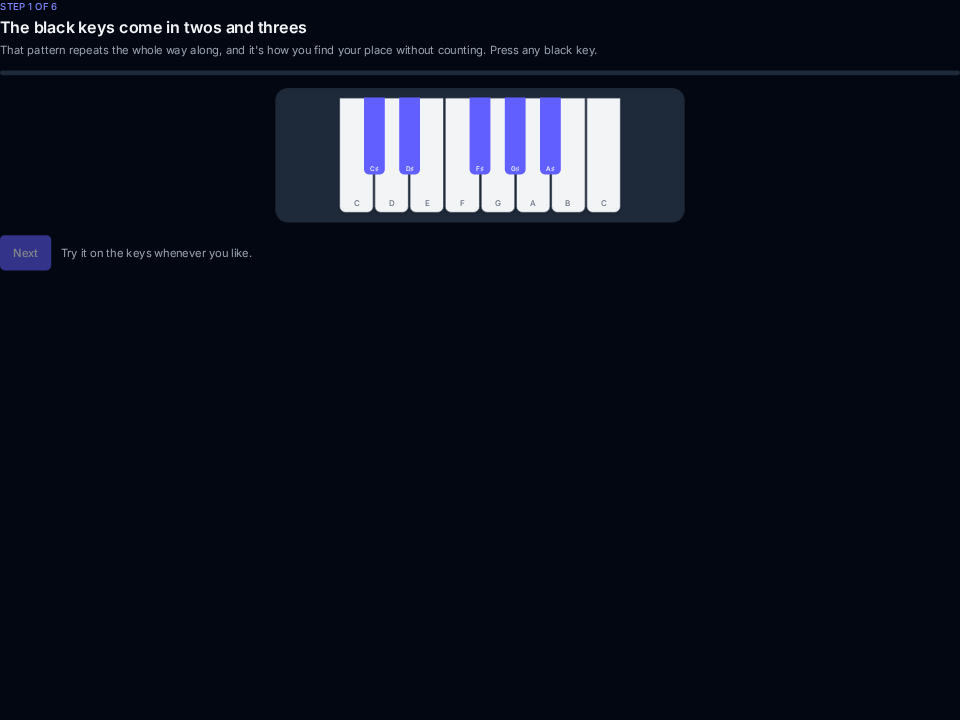
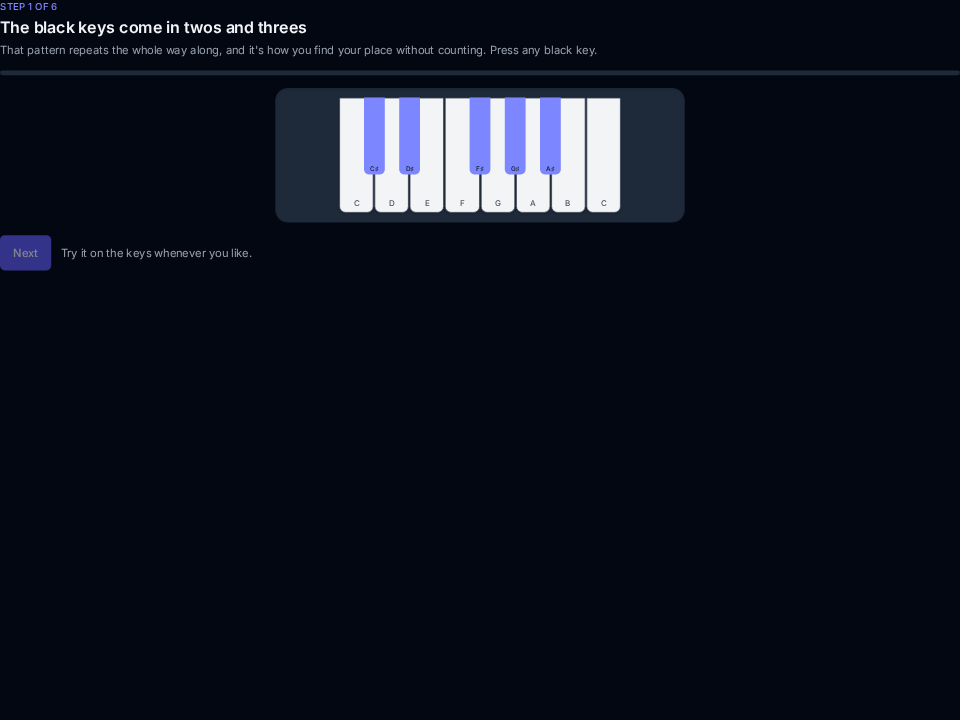
fix(ui): give each colour its own role, and gate the ways that fails
Folding colours onto roles is easy to overdo, and three of these were found by
gates rather than by reading the diff. Every raw palette utility now names a
role, including the ones in core/, which the gate had not been walking.

Roles that were sharing a name:

- `chart-bar` had become a synonym for indigo-400 across six unrelated things.
  Split: `accent-soft` for a progress bar, the race track and a decorative
  mark; `key-next` for the two that are about a key — the note the score asks
  for next, and the hold bar draining down it.
- The grade letters S–F moved out of core/grade.ts into `grade-*` tokens. They
  are a scale, not a set of states: E and F are red, but they move when the
  scale is retuned, not when `danger` is.
- `key-ink` covers dark ink on any bright key face — a white key, or a black
  key lit by a state colour. It is flat across themes because the face it sits
  on does not invert.

Contrast regressions the axe sweep caught, both from a fold that looked safe:

- An unselected segmented-control tab took `muted`, which sits under 4.5:1 on
  the tinted track it renders on. It is `body` — a control the reader is meant
  to act on, not helper text.
- The arcade's call to action took `ghost` for both its fill and its hover, so
  it lost the hover entirely and dropped to 3.5:1. It has `ghost-solid` and
  `ghost-solid-hover`, fuchsia-600 and -500 as before.

The gate grows two rules so these fail here rather than on a screen:
[…]

Changed region(s): [[0.4688, 0.1222, 0.5938, 0.2444], [0.375, 0.1222, 0.4375, 0.2444]]

diff --git a/app/app.css b/app/app.css
@@ -19,9 +19,10 @@ SPDX-License-Identifier: 0BSD
    themes cannot come apart.
 
    `npm run tokens` (dev/check-design-tokens.mjs) reads the token names straight
-   out of this block and rejects raw palette utilities in `app/components` and
-   `app/routes`, so adding a token here is all it takes to make it usable, and
-   the hand-paired form cannot come back.
+   out of this block and rejects raw palette utilities anywhere under `app/` or
+   `core/`, so adding a token here is all it takes to make it usable, and the
+   hand-paired form cannot come back. It also rejects a token nothing uses,
+   which keeps this list a description of the product rather than a wish list.
 
    Utilities generated from a token reference its variable rather than inlining
    the value, so redefining the variable under `.dark` re-resolves every use.
@@ -62,6 +63,8 @@ SPDX-License-Identifier: 0BSD
     --color-accent-line: var(--color-indigo-200);
     --color-accent-line-strong: var(--color-indigo-300);
     --color-accent-ring: var(--color-indigo-500); /* focus ring */
+    /* A lighter accent fill: progress bars, the race track, a decorative mark. */
+    --color-accent-soft: var(--color-indigo-400);
 
     /* Correct, saved, on target. Green only — `emerald` said the same thing. */
     --color-success: var(--color-green-700);
@@ -69,7 +72,6 @@ SPDX-License-Identifier: 0BSD
        white text needs it to clear WCAG 4.5:1, exactly as `danger-solid` does.
        The lighter greens look better and fail: white on green-600 is 3.2:1. */
     --color-success-solid: var(--color-green-700);
-    --color-success-solid-hover: var(--color-green-800);
     --color-success-surface: var(--color-green-50);
     --color-success-fill: var(--color-green-200);
     --color-success-line: var(--color-green-300);
@@ -94,6 +96,7 @@ SPDX-License-Identifier: 0BSD
     --color-warn-solid: var(--color-amber-500);
 
     /* Neutral news — the sky banner, distinct from a warning and from the brand. */
+    --color-info: var(--color-sky-700); /* the dismiss control's hover */
     --color-info-ink: var(--color-sky-900);
     --color-info-surface: var(--color-sky-50);
     --color-info-line: var(--color-sky-300);
@@ -108,14 +111,23 @@ SPDX-License-Identifier: 0BSD
        the same way the score sheet stays paper. Inverting them would be a
        different instrument. */
     --color-key-white: var(--color-white);
-    --color-key-white-ink: var(--color-gray-900);
+    /* Dark ink for any bright key face — a white key, or a black key lit by a
+       state colour. Flat across themes, because the face it sits on does not
+       invert: `ink` would go pale in dark mode and vanish into the fill. */
+    --color-key-ink: var(--color-gray-900);
     --color-key-black: var(--color-gray-900);
     --color-key-black-ink: var(--color-gray-300);
     --color-key-spent: var(--color-gray-400); /* a key the round is done with */
     --color-key-spent-ink: var(--color-gray-200);
     --color-key-hover: var(--color-indigo-50);
     --color-key-held: var(--color-green-500); /* a key you are holding down */
-    --color-key-next: var(--color-indigo-400); /* the note to play next */
+    /* What the score asks of a key — which one comes next, and the hold bar
+       draining down it for as long as the note is written to last. */
+    --color-key-next: var(--color-indigo-400);
+    /* The note name printed on a white key. It darkens in dark mode rather than
+       lightening, because the key it sits on does not invert — `faint` would
+       lighten it against a light key and sink it under the contrast floor. */
+    --color-key-label: var(--color-gray-400);
     /* How a run went, as a fixed scale. These are data, not chrome: the steps
        are matched to the share emoji (🟩 🟨 🟧 🟥 ⬜), and the share card is an
        image other people look at, so they hold the same value in both themes.
@@ -128,13 +140,27 @@ SPDX-License-Identifier: 0BSD
     --color-band-weak: var(--color-red-500);
     --color-band-none: var(--color-gray-300);
 
-    /* Bars in the practice charts: the run's peak, an ordinary reading, and the
-       track the readings sit on. */
+    /* The grade letters, S down to F. Another scale rather than a set of states:
+       E and F are both red, but they are a grade, not an error, so they move
+       when the scale is retuned and not when `danger` is. */
+    --color-grade-s: var(--color-amber-500);
+    --color-grade-a: var(--color-green-600);
+    --color-grade-b: var(--color-lime-600);
+    --color-grade-c: var(--color-yellow-600);
+    --color-grade-d: var(--color-orange-600);
+    --color-grade-e: var(--color-red-600);
+    --color-grade-f: var(--color-red-800);
+
+    /* The two bars in the practice charts: the run's peak, and the track the
+       other readings sit on. */
     --color-chart-peak: var(--color-indigo-500);
-    --color-chart-bar: var(--color-indigo-400);
     --color-chart-track: var(--color-indigo-300);
     /* A race has two runners: you in indigo, the ghost in fuchsia. */
     --color-ghost: var(--color-fuchsia-500);
+    /* The arcade's filled call to action. fuchsia-600, not the ghost fill it
+       sits near: white on fuchsia-500 is 3.5:1, under the floor. */
+    --color-ghost-solid: var(--color-fuchsia-600);
+    --color-ghost-solid-hover: var(--color-fuchsia-500);
     --color-ghost-text: var(--color-fuchsia-600);
     --color-ghost-surface: var(--color-fuchsia-50);
     --color-ghost-line: var(--color-fuchsia-200);
@@ -185,10 +211,10 @@ SPDX-License-Identifier: 0BSD
     --color-accent-line: var(--color-indigo-900);
     --color-accent-line-strong: var(--color-indigo-700);
     --color-accent-ring: var(--color-indigo-500);
+    --color-accent-soft: var(--color-indigo-500);
 
     --color-success: var(--color-green-300);
     --color-success-solid: var(--color-green-700);
-    --color-success-solid-hover: var(--color-green-800);
     --color-success-surface: var(--color-green-950);
     --color-success-fill: var(--color-green-900);
     --color-success-line: var(--color-green-700);
@@ -208,6 +234,7 @@ SPDX-License-Identifier: 0BSD
     --color-warn-line: var(--color-amber-800);
     --color-warn-solid: var(--color-amber-400);
 
+    --color-info: var(--color-sky-100);
     --color-info-ink: var(--color-sky-200);
     --color-info-surface: var(--color-sky-950);
     --color-info-line: var(--color-sky-800);
@@ -219,7 +246,7 @@ SPDX-License-Identifier: 0BSD
     --color-paper-ink: var(--color-stone-500);
 
     --color-key-white: var(--color-gray-100);
-    --color-key-white-ink: var(--color-gray-900);
+    --color-key-ink: var(--color-gray-900);
     --color-key-black: var(--color-gray-800);
     --color-key-black-ink: var(--color-gray-300);
     --color-key-spent: var(--color-gray-700);
@@ -227,6 +254,7 @@ SPDX-License-Identifier: 0BSD
     --color-key-hover: var(--color-indigo-100);
     --color-key-held: var(--color-green-500);
     --color-key-next: var(--color-indigo-400);
+    --color-key-label: var(--color-gray-600);
 
     /* The run scale holds its values across themes — see above. */
     --color-band-best: var(--color-green-500);
@@ -236,11 +264,20 @@ SPDX-License-Identifier: 0BSD
     --color-band-weak: var(--color-red-500);
     --color-band-none: var(--color-gray-300);
 
+    --color-grade-s: var(--color-amber-300);
+    --color-grade-a: var(--color-green-400);
+    --color-grade-b: var(--color-lime-400);
+    --color-grade-c: var(--color-yellow-400);
+    --color-grade-d: var(--color-orange-400);
+    --color-grade-e: var(--color-red-400);
+    --color-grade-f: var(--color-red-500);
+
     --color-chart-peak: var(--color-indigo-500);
-    --color-chart-bar: var(--color-indigo-500);
     --color-chart-track: var(--color-indigo-800);
 
     --color-ghost: var(--color-fuchsia-500);
+    --color-ghost-solid: var(--color-fuchsia-600);
+    --color-ghost-solid-hover: var(--color-fuchsia-500);
     --color-ghost-text: var(--color-fuchsia-400);
     --color-ghost-surface: var(--color-fuchsia-950);
     --color-ghost-line: var(--color-fuchsia-900);

diff --git a/app/components/ui/keyboard.tsx b/app/components/ui/keyboard.tsx
@@ -82,7 +82,7 @@ function HoldFill({ fraction }: { fraction: number }) {
     return (
         <span
             aria-hidden="true"
-            className="pointer-events-none absolute inset-x-0 bottom-0 bg-chart-bar/45 dark:bg-chart-bar/40"
+            className="pointer-events-none absolute inset-x-0 bottom-0 bg-key-next/45 dark:bg-key-next/40"
             style={{ height: `${Math.min(1, Math.max(0, fraction)) * 100}%` }}
         />
     );
@@ -463,14 +463,14 @@ export function Keyboard({
             : lit.has(note)
               ? "translate-y-0.5 bg-key-held shadow-[0_0_14px_-3px] shadow-key-held"
               : expected.includes(note)
-                ? "bg-chart-bar"
+                ? "bg-key-next"
                 : theme.black;
     // A black key's name is pale because the key is nearly black — but every state that
     // means something (wrong, held, play this) fills it with a bright colour, and pale
     // grey on those is well under the contrast floor. The name follows the fill.
     const blackLabel = (note: number) =>
         flash?.note === note || lit.has(note) || expected.includes(note)
-            ? "text-ink"
+            ? "text-key-ink"
             : "text-key-black-ink";
 
     // The wrong note, spoken into a live region so a screen-reader player hears the miss
@@ -515,7 +515,7 @@ export function Keyboard({
                             {keyLabel(note, labels) && (
                                 <span
                                     aria-hidden="true"
-                                    className="pointer-events-none absolute inset-x-0 bottom-1 text-center text-[10px] font-medium text-faint"
+                                    className="pointer-events-none absolute inset-x-0 bottom-1 text-center text-[10px] font-medium text-key-label"
                                 >
                                     {keyLabel(note, labels)}
                                 </span>

diff --git a/core/grade.test.ts b/core/grade.test.ts
@@ -80,16 +80,21 @@ describe("parseGrade", () => {
 });
 
 describe("GRADE_COLOR", () => {
-    it("maps every letter to its contrast-safe light/dark colour classes", () => {
+    it("gives every letter its own token, and no two letters the same one", () => {
         expect(GRADE_COLOR).toEqual({
-            S: "text-amber-500 dark:text-amber-300",
-            A: "text-green-600 dark:text-green-400",
-            B: "text-lime-600 dark:text-lime-400",
-            C: "text-yellow-600 dark:text-yellow-400",
-            D: "text-orange-600 dark:text-orange-400",
-            E: "text-red-600 dark:text-red-400",
-            F: "text-red-800 dark:text-red-500",
+            S: "text-grade-s",
+            A: "text-grade-a",
+            B: "text-grade-b",
+            C: "text-grade-c",
+            D: "text-grade-d",
+            E: "text-grade-e",
+            F: "text-grade-f",
         });
+        // The letters are an ordinal scale, so two of them sharing a colour
+        // would silently merge two ranks. Each token's light and dark values
+        // live in app/app.css, where the token gate holds them to both themes.
+        const colours = Object.values(GRADE_COLOR);
+        expect(new Set(colours).size).toBe(colours.length);
     });
 });
 

diff --git a/app/components/ui/segmentedControl.tsx b/app/components/ui/segmentedControl.tsx
@@ -42,7 +42,10 @@ export function SegmentedControl<T extends string>({
                         className={`inline-flex min-h-11 items-center justify-center rounded-md px-4 text-sm font-medium transition-colors disabled:opacity-50 ${
                             selected
                                 ? "bg-surface text-accent-strong shadow-sm"
-                                : "text-muted hover:text-ink"
+                                : // `body`, not `muted`: an unselected tab is a control the
+                                  // reader is meant to act on, and it sits on the tinted
+                                  // track, where helper-text grey drops under 4.5:1.
+                                  "text-body hover:text-ink"
                         }`}
                     >
                         {option.label}

diff --git a/core/grade.ts b/core/grade.ts
@@ -25,13 +25,13 @@ export type Grade = {
 // A gold "S" tier above an A–F gradient that runs green → red. Contrast-safe
 // text colours (light / dark) at the large size the grade letter is shown.
 export const GRADE_COLOR: Record<Letter, string> = {
-    S: "text-amber-500 dark:text-amber-300",
-    A: "text-green-600 dark:text-green-400",
-    B: "text-lime-600 dark:text-lime-400",
-    C: "text-yellow-600 dark:text-yellow-400",
-    D: "text-orange-600 dark:text-orange-400",
-    E: "text-red-600 dark:text-red-400",
-    F: "text-red-800 dark:text-red-500",
+    S: "text-grade-s",
+    A: "text-grade-a",
+    B: "text-grade-b",
+    C: "text-grade-c",
+    D: "text-grade-d",
+    E: "text-grade-e",
+    F: "text-grade-f",
 };
 
 const LETTERS: readonly Letter[] = ["S", "A", "B", "C", "D", "E", "F"];

diff --git a/app/components/ui/ghostTrack.tsx b/app/components/ui/ghostTrack.tsx
@@ -43,7 +43,7 @@ export function GhostTrack({ you, ghost, total }: { you: number; ghost: number; 
                 {/* The shared lane, with the finish line pinned to its end. */}
                 <div className="absolute inset-x-0 top-1/2 h-2 -translate-y-1/2 rounded-full bg-subtle-strong" />
                 <div
-                    className="absolute left-0 top-1/2 h-2 -translate-y-1/2 rounded-full bg-gradient-to-r from-chart-bar to-accent-solid"
+                    className="absolute left-0 top-1/2 h-2 -translate-y-1/2 rounded-full bg-gradient-to-r from-accent-soft to-accent-solid"
                     style={{ width: `${youAt}%` }}
                 />
                 <div className="absolute right-0 top-1/2 h-5 w-0.5 -translate-y-1/2 rounded-full bg-key-spent" />

diff --git a/app/components/features/earStage.tsx b/app/components/features/earStage.tsx
@@ -85,7 +85,7 @@ export function EarStage({ notes, autoPlay }: { notes: EarNote[]; autoPlay: bool
                             aria-hidden="true"
                             className={`h-4 w-4 rounded-full transition-all duration-200 motion-reduce:transition-none ${
                                 sounding
-                                    ? "scale-150 bg-chart-bar shadow-[0_0_20px_theme(colors.indigo.500)]"
+                                    ? "scale-150 bg-accent-soft shadow-[0_0_20px] shadow-accent-ring"
                                     : "scale-100 bg-key-spent"
                             }`}
                         />

diff --git a/app/components/features/arcadeCard.tsx b/app/components/features/arcadeCard.tsx
@@ -40,7 +40,7 @@ export function ArcadeCard() {
             <p className="text-muted text-sm">{m.arcade_blurb()}</p>
             <Link
                 to={`/play/${id}`}
-                className="inline-block rounded-lg bg-ghost px-4 py-2 font-medium text-sm text-white transition hover:bg-ghost"
+                className="inline-block rounded-lg bg-ghost-solid px-4 py-2 font-medium text-sm text-white transition hover:bg-ghost-solid-hover"
             >
                 {m.arcade_play({ level })}
             </Link>

diff --git a/app/components/features/slowNotes.tsx b/app/components/features/slowNotes.tsx
@@ -47,7 +47,7 @@ export function SlowNotes() {
                             {noteName(row.note)}
                         </span>
                         <span
-                            className="h-2 rounded-full bg-chart-bar"
+                            className="h-2 rounded-full bg-accent-soft"
                             // The bar is decoration over the figure beside it, so it
                             // carries no separate label for a screen reader to repeat.
                             aria-hidden="true"

diff --git a/app/components/features/earKeyboard.tsx b/app/components/features/earKeyboard.tsx
@@ -58,7 +58,7 @@ function whiteClasses(verdict: Verdict, settled: boolean): string {
     if (settled) {
         return "border-line bg-raised text-faint";
     }
-    return "border-line-strong bg-key-white text-key-white-ink hover:bg-key-hover hover:text-accent-strong";
+    return "border-line-strong bg-key-white text-key-ink hover:bg-key-hover hover:text-accent-strong";
 }
 
 function blackClasses(verdict: Verdict, settled: boolean): string {

diff --git a/app/components/features/notesHighway.tsx b/app/components/features/notesHighway.tsx
@@ -85,7 +85,7 @@ export function NotesHighway({
                 {/* The strike line: where a block meets its key. */}
                 <span
                     aria-hidden="true"
-                    className="pointer-events-none absolute inset-x-0 bottom-0 h-0.5 bg-chart-bar/70"
+                    className="pointer-events-none absolute inset-x-0 bottom-0 h-0.5 bg-accent-soft/70"
                 />
             </div>
         </div>

diff --git a/app/routes/about.tsx b/app/routes/about.tsx
@@ -47,7 +47,7 @@ const FOUNDERS = [
 function DuetMark() {
     return (
         <span aria-hidden="true" className="inline-flex items-center gap-1 align-middle">
-            <span className="h-1.5 w-6 rounded-full bg-chart-bar" />
+            <span className="h-1.5 w-6 rounded-full bg-accent-soft" />
             <span className="h-1.5 w-3 rounded-full bg-key-spent" />
         </span>
     );
